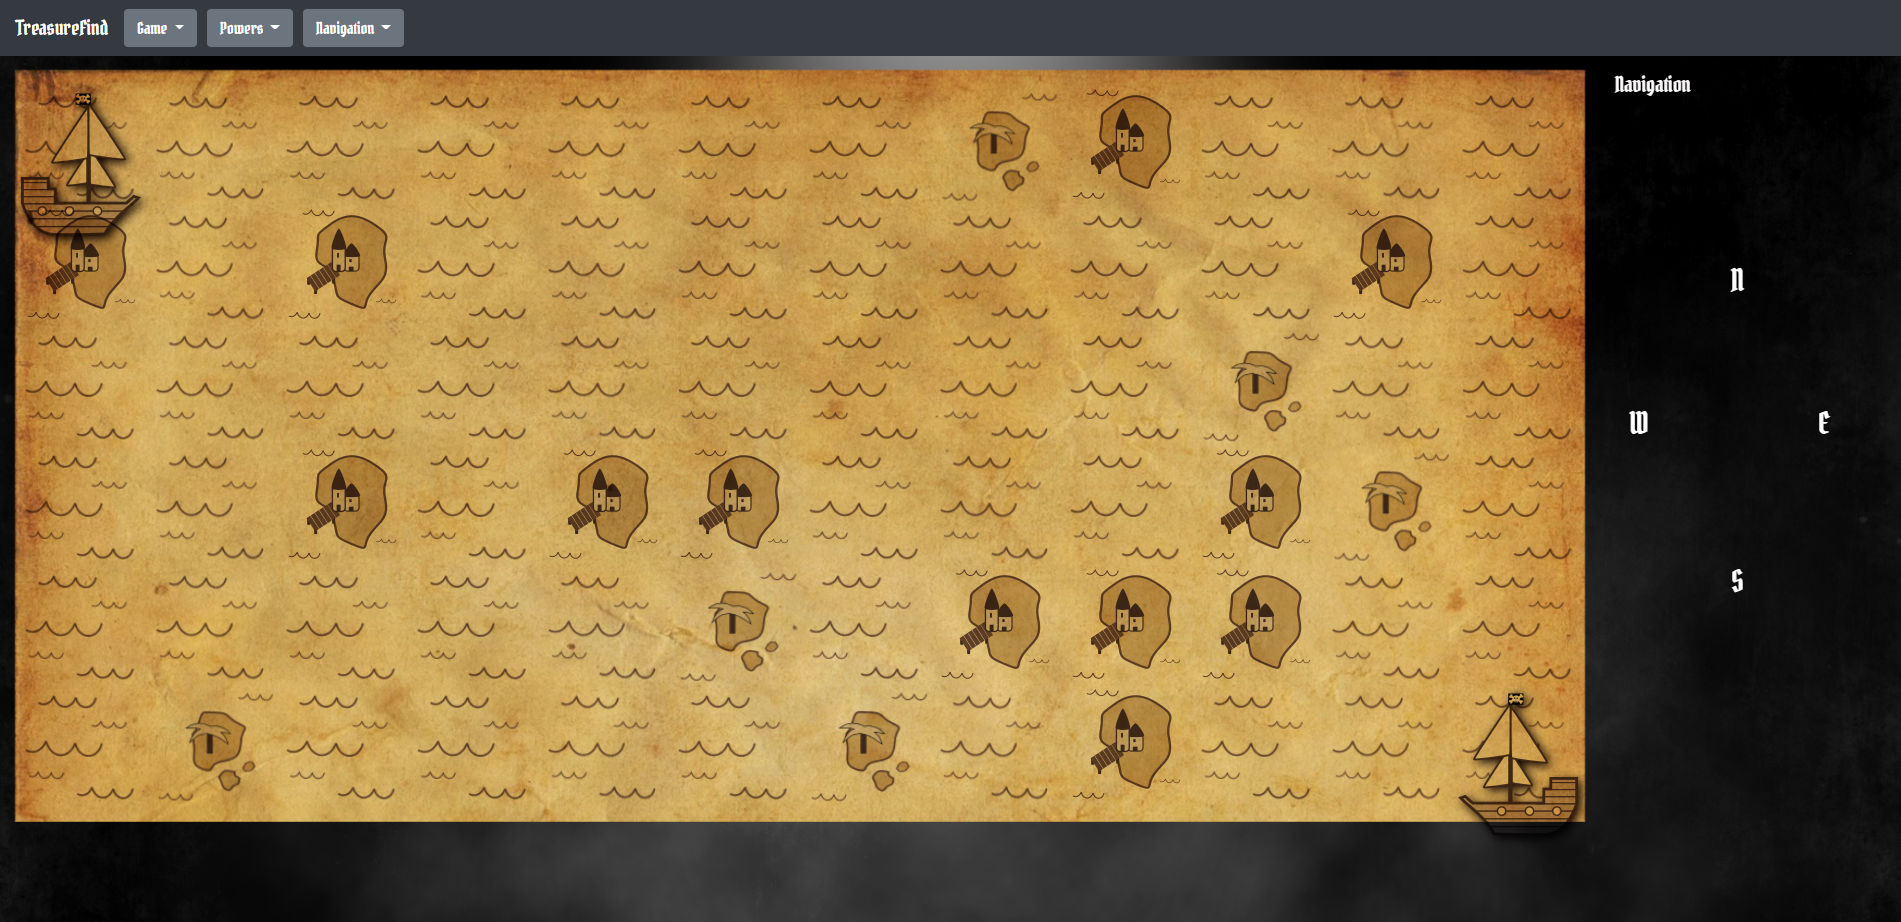
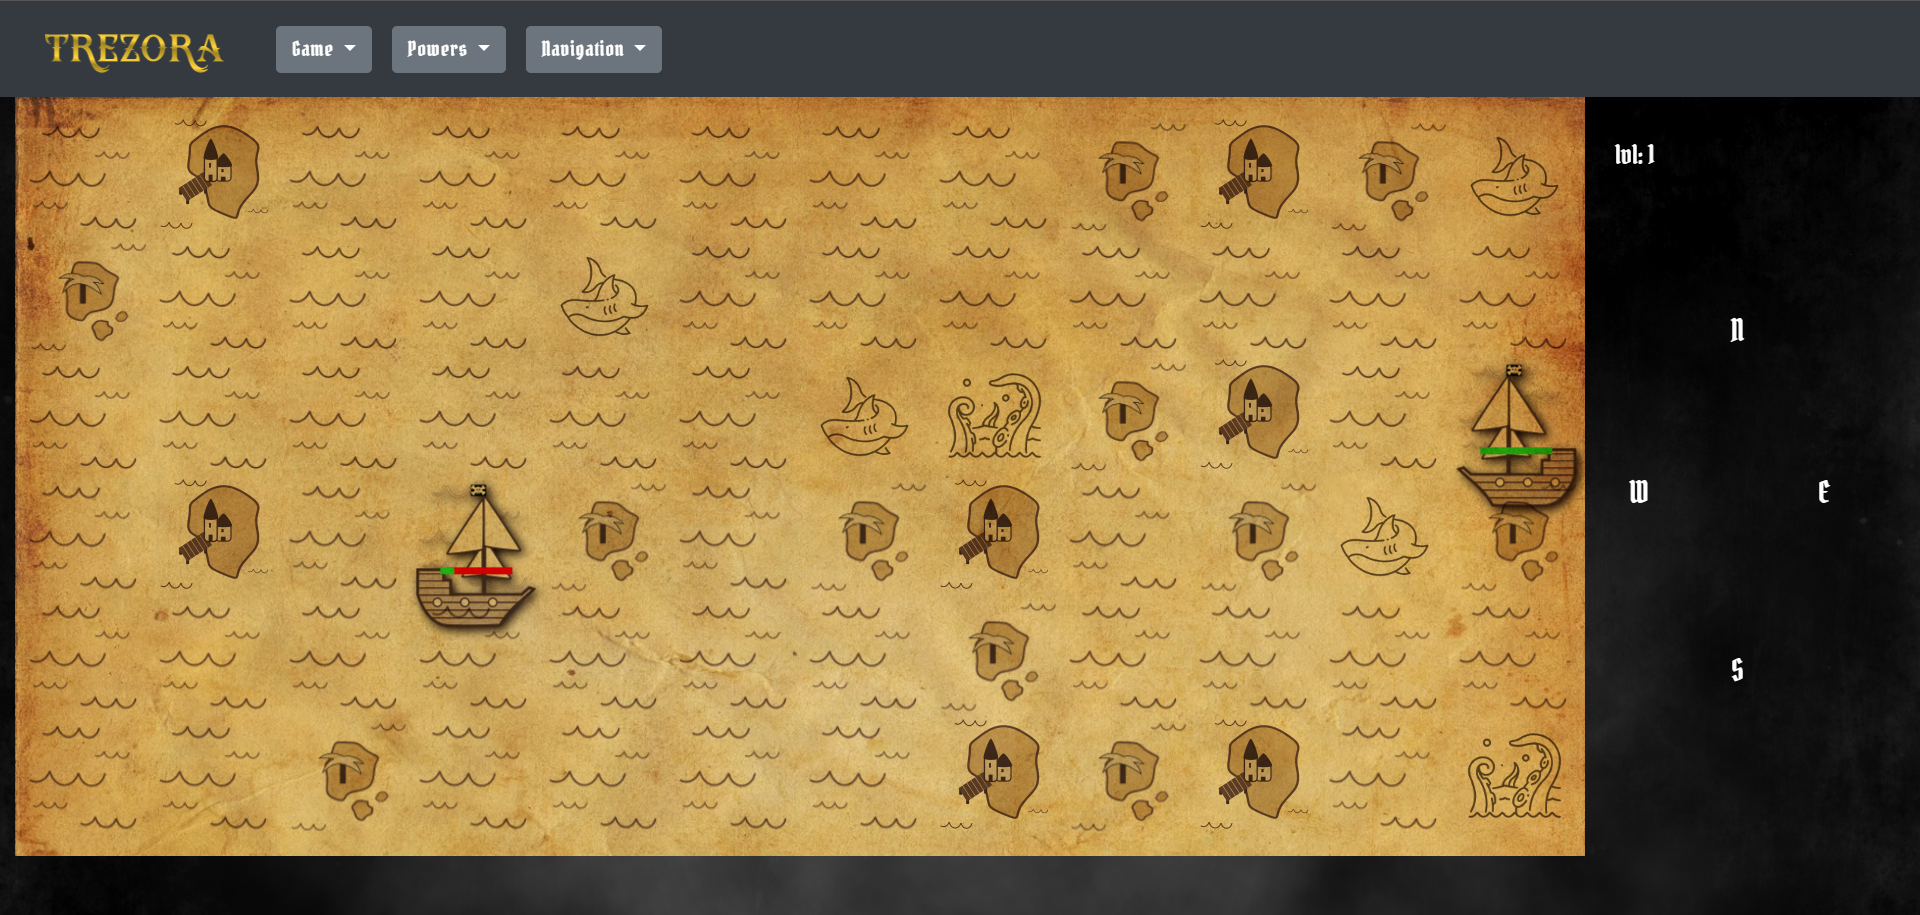
updated repo preview + todolist with new functionalities and fixed some visual bugs

diff --git a/styles/map.css b/styles/map.css
@@ -1,3 +1,9 @@
+html, body{
+    overflow: hidden;
+}
+.col-md-2{
+    height: 100%;
+}
 .tile {
     height: 120px;
     width: 120px;
@@ -66,21 +72,22 @@
 {
 
 }
+
 .north {
-    left: 40%;
+    left: 50%;
     top:25%;
 }
 .south {
-    left: 40%;
+    left: 50%;
     top:65%;
 }
 .west {
-    left: 5%;
+    left: 20%;
     top: 44%;
 }
 .east {
     top: 44%;
-    left: 70%;
+    left: 80%;
 }
 .sailing{
     animation-duration: 2s;
@@ -380,11 +387,11 @@ h2 {
         opacity: 0;
     }
     20%{
-        scale: 3;
+        scale: 2;
         opacity: 1;
     }
     100%{
-        scale: 3;
+        scale: 2;
         opacity: 0;
     }
 }
@@ -491,7 +498,7 @@ h2 {
     transform: translateY(-50%);
 }
 
-.clickable::after {
+.clickable::before {
     content: "";
     display: block;
     position: absolute;
@@ -595,7 +602,7 @@ h2 {
     }
 }
   
-@media screen and (max-width: 1800px) {
+@media screen and (max-width: 1200px) {
     .tile {
         height: 100px;
         width: 100px;
@@ -658,5 +665,24 @@ h2 {
 @media screen and (min-width: 1201px) {
     h2.levelTitle{
         margin-top: 1.5em;
+    }
+    .container-fluid{
+        height: 100%;
+        margin-top: 1.25em;
+    }
+    .container-fluid > .row, .col-md-10{
+        height: 100%;
+        align-items: center;
+        display: flex;
+    }
+    .tile{
+        width: calc(83.33vw / var(--columnCount));
+        height: calc(80vh / var(--rowCount));
+    }
+    .north, .south, .west, .east{
+        transform: translate(-50%, -50%);
+    }
+    .col-md-2{
+        height: 90vh;
     }
 }

diff --git a/scripts/functions.js b/scripts/functions.js
@@ -590,6 +590,7 @@ function fightCreature(boat, tileObject, creatureType) {
     setTimeout(() => {
         boat.domElement.classList.remove("attack")
         tileNode.classList.add("defend")
+        console.log("tileNode", tileNode)
         setTimeout(() => {
             tileNode.classList.remove("defend")
 
@@ -600,13 +601,18 @@ function fightCreature(boat, tileObject, creatureType) {
             {
                 tileNode.classList.remove(creatureType)
                 tileNode.classList.remove("clickable")
+                tileNode.removeAttribute('onclick')
                 tileNode.classList.add("sea")
                 console.log('tileNode.dataset.cordX + "-" + tileNode.dataset.cordY', tileNode.dataset.cordX + "-" + tileNode.dataset.cordY)
                 setItem(tileNode.dataset.cordX + "-" + tileNode.dataset.cordY, "sea")
                 if(boat.player == "human")
-                    randLoot(true)
+                {
+                    setTimeout(() => {
+                        randLoot(true)
+                    }, 200);
+                }
             }
-        }, 1000)
+        }, 1100)
     }, 1000)
 }
 function setCurrentTileTarget(boat)

diff --git a/credits.html b/credits.html
@@ -5,7 +5,6 @@
     <meta name="viewport" content="width=device-width, initial-scale=1.0">
     <title>Credits</title>
     <link rel="stylesheet" href="./styles/style.css">
-    <link rel="stylesheet" href="./styles/map.css">
 </head>
 <style>
     div > a {
@@ -13,9 +12,9 @@
         color: #fff;
     }
 </style>
-<body style="max-width:900px;padding:2em;margin:auto;box-sizing:border-box;overflow-x:hidden;">
+<body style="max-width:900px;padding:2em;margin:auto;box-sizing:border-box;overflow-x:hidden;font-family : Arial, Helvetica, sans-serif">
     <h1>Credits</h1>
-    <p style="color: #fff;">Many thanks to these artist designers who freely provide beautiful icons and stickers that made this modest game so more attractive</p>
+    <p style="color: #fff;">Many thanks to these artist designers who freely provide beautiful icons and stickers that made this game so more attractive</p>
     <section>
         <h2>Logo Font</h2>
         <div>

diff --git a/TODO.md b/TODO.md
@@ -12,14 +12,17 @@
 
 
 ## Game design
-* Difficulty system : increasing it at the same time as player levels up, but let the player modify it as they will. More difficulty is, stronger is the opponent and more coins gained
+* Page settings
+    - Difficulty system : increasing it at the same time as player levels up, but let the player modify it as they will. More difficulty is, stronger is the opponent and more coins gained
+    -  Possibility to change boat skin (change it also when upgrading?)
+    - Possibility to change map size (withing a limit range : default->12x6, 14x7, 16x8?)
 
 # DONE
 
 ## Explore & Shop
 * Shop : Make it beautiful
 * Powers could be disposable and available in shop when some level is reached, in order to make them more attractive and powerful. Price should be pretty low to be able to buy 1 or 2 by game
-- Remains setting power items in the shop + handling power use counts + handling powers display if unlocked or not
+    - Remains setting power items in the shop + handling power use counts + handling powers display if unlocked or not
 * Init a drop rate = 0 when game starts, then increase it at each move, representing a probability to loot some stuff to sell in the shop. Reinit at 0 after looting
 * Shop : Make it functional -> Remains selling items
 
